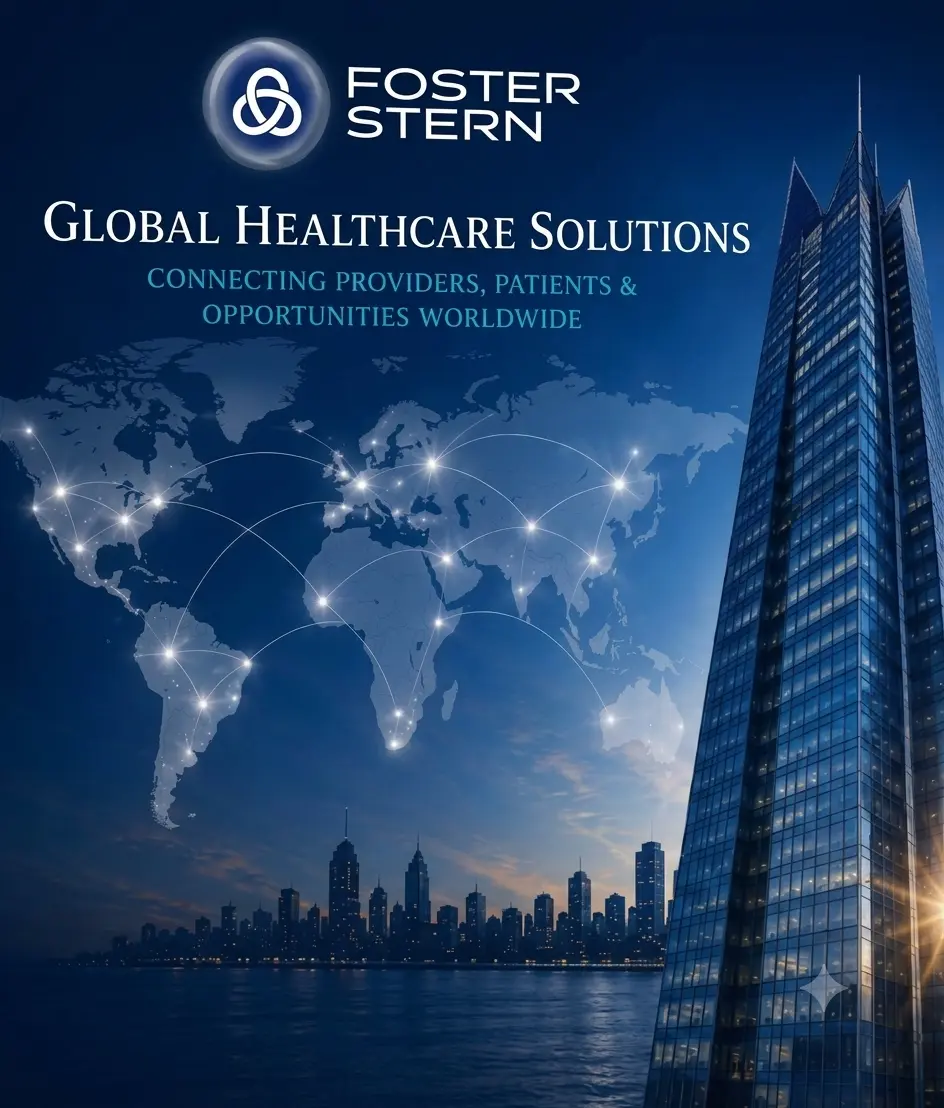
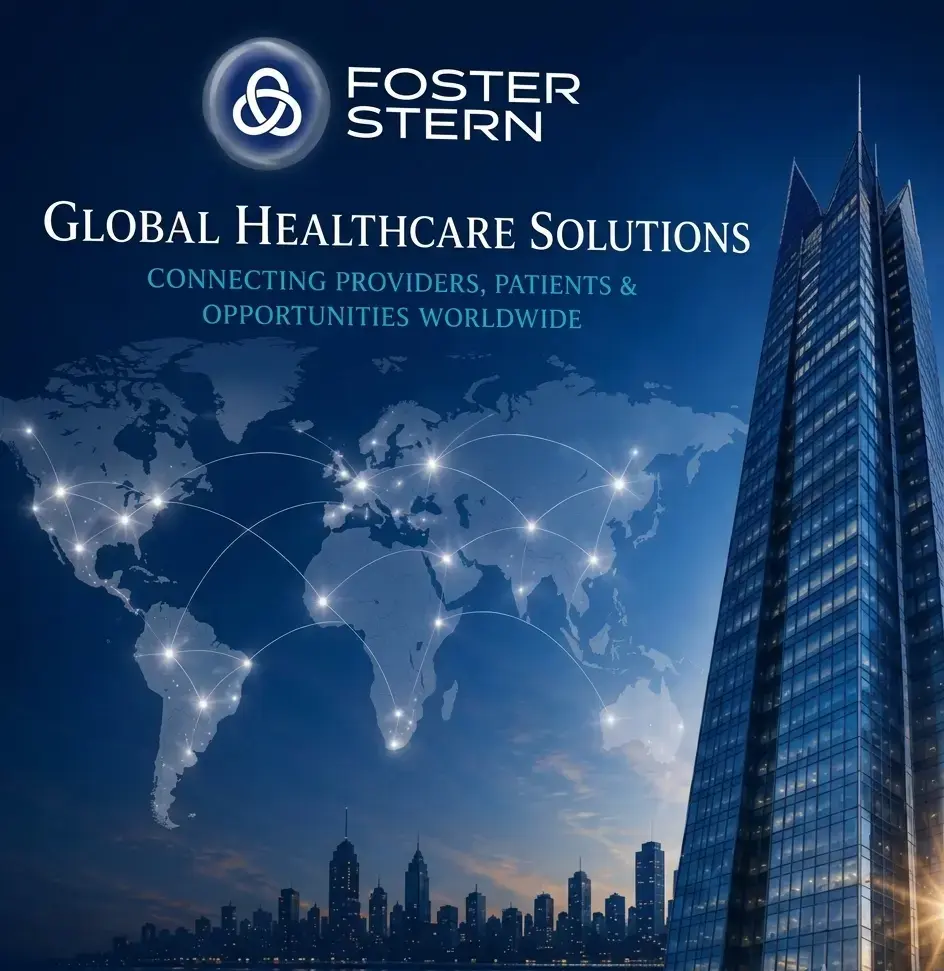
Seccion refactorized Header, secction

diff --git a/src/components/SiteHeader.tsx b/src/components/SiteHeader.tsx
@@ -10,7 +10,14 @@ const links: { label: string; to: string; hash?: string }[] = [
   { label: "Clientes", to: "/", hash: "testimonials" },
 ];
 
-const logos = ["/images/FSGRD.svg", "/images/FSGMX.svg", "/images/FSGCO.svg", "/images/FSGESP.svg" , "/images/Lamed.svg",  "/images/MiamiInstitute.svg"];
+const logos = [
+  "/images/FSGRD.svg",
+  "/images/FSGMX.svg",
+  "/images/FSGCO.svg",
+  "/images/FSGESP.svg",
+  "/images/Lamed.svg",
+  "/images/MiamiInstitute.svg",
+];
 
 export function SiteHeader() {
   const [open, setOpen] = useState(false);
@@ -98,11 +105,10 @@ export function SiteHeader() {
     transition-all
     duration-500
     ease-[cubic-bezier(.22,1,.36,1)]
-    ${
-      showHeader
-        ? "opacity-100 translate-y-0 blur-0 scale-100 pointer-events-auto"
-        : "opacity-0 -translate-y-6 blur-sm scale-[0.98] pointer-events-none"
-    }
+    ${showHeader
+          ? "opacity-100 translate-y-0 blur-0 scale-100 pointer-events-auto"
+          : "opacity-0 -translate-y-6 blur-sm scale-[0.98] pointer-events-none"
+        }
   `}
     >
       {/* TOP MARQUEE */}
@@ -182,14 +188,14 @@ export function SiteHeader() {
           {/* DESKTOP NAV */}
           <nav
             className="
-          hidden
-          md:flex
-          items-center
-          gap-10
-          absolute
-          left-1/2
-          -translate-x-1/2
-        "
+    hidden
+    lg:flex
+    items-center
+    gap-10
+    absolute
+    left-1/2
+    -translate-x-1/2
+  "
           >
             {links.map((link) => (
               <Link

diff --git a/src/components/ServicesShowcaseGrid.tsx b/src/components/ServicesShowcaseGrid.tsx
@@ -33,7 +33,7 @@ const services: ServiceCardData[] = [
     id: "medicina-clinica",
     title: "Medicina Clínica",
     description: "Atención médica especializada y de alta calidad.",
-    image: "/images/Medicina-Clinica.png",
+    image: "/images/Medicina-Clinica.webp",
     modal: {
       description:
         "Equipos clínicos multidisciplinarios que acompañan cada caso con protocolos rigurosos, tecnología de diagnóstico actualizada y seguimiento cercano del paciente en todas las etapas del tratamiento.",
@@ -48,7 +48,7 @@ const services: ServiceCardData[] = [
     id: "medicina-regenerativa",
     title: "Medicina Regenerativa",
     description: "Restauración de la salud celular y tejidos mediante terapias innovadoras.",
-    image: "/images/Medicina-regenerativa.png",
+    image: "/images/Medicina-regenerativa.webp",
     modal: {
       description:
         "Terapias de vanguardia orientadas a la reparación de tejidos y la recuperación funcional, combinando investigación científica con un enfoque centrado en resultados sostenibles a largo plazo.",
@@ -63,7 +63,7 @@ const services: ServiceCardData[] = [
     id: "investigacion-medica",
     title: "Investigación Médica",
     description: "Desarrollo científico y protocolos de vanguardia para la medicina del futuro.",
-    image: "/images/Investigacion-medica.png",
+    image: "/images/Investigacion-medica.webp",
     modal: {
       description:
         "Programas de investigación que traducen hallazgos científicos en protocolos aplicables, impulsando innovación médica con estándares internacionales de calidad y ética.",
@@ -78,7 +78,7 @@ const services: ServiceCardData[] = [
     id: "manufactura-distribucion",
     title: "Manufactura y Distribución",
     description: "Producción y logística global de insumos médicos confiables.",
-    image: "/images/Manufacturacion.png",
+    image: "/images/Manufacturacion.webp",
     modal: {
       description:
         "Infraestructura de manufactura y una red logística global que garantiza trazabilidad, calidad certificada y entregas puntuales de insumos médicos en cada región donde operamos.",
@@ -93,7 +93,7 @@ const services: ServiceCardData[] = [
     id: "inmunologia-alergias",
     title: "Inmunología y Alergias",
     description: "Diagnóstico avanzado y tratamientos para el sistema inmunológico.",
-    image: "/images/Imnunologia.png",
+    image: "/images/Imnunologia.webp",
     modal: {
       description:
         "Diagnóstico de precisión y planes de tratamiento individualizados para condiciones inmunológicas y alérgicas, apoyados en tecnología especializada y monitoreo continuo.",
@@ -108,7 +108,7 @@ const services: ServiceCardData[] = [
     id: "innovacion-salud",
     title: "Innovación en Salud",
     description: "Creación de nuevos proyectos y soluciones médicas de alto impacto.",
-    image: "/images/Innovacion.png",
+    image: "/images/Innovacion.webp",
     modal: {
       description:
         "Un área dedicada a explorar nuevas soluciones médicas, desde alianzas estratégicas hasta el desarrollo de proyectos que amplían nuestro impacto en la salud global.",
@@ -226,7 +226,10 @@ function ServiceCard({ service, index }: ServiceCardProps) {
  */
 export function ServicesShowcaseGrid() {
   return (
-    <div className="mx-auto max-w-6xl mt-20" id="services">
+    <div
+  className="mx-auto mt-20 max-w-6xl px-4 sm:px-6 lg:px-8"
+  id="services"
+>
       {/* Header de la sección */}
       <div className="max-w-2xl">
         <span className="text-xs font-semibold uppercase tracking-[0.2em] text-[#238CCC]">

diff --git a/src/routes/index.tsx b/src/routes/index.tsx
@@ -1,6 +1,6 @@
 import { createFileRoute } from "@tanstack/react-router";
 import { SiteHeader } from "@/components/SiteHeader";
-import infoImage from "@/assets/info-section.jpg";
+import infoImage from "/images/Cuidado-de-salud.webp";
 import heroMain from "@/assets/hero-main.jpg";
 import cityMexico from "@/assets/city-mexico.jpg";
 import cityMiami from "@/assets/city-miami.jpg";
@@ -34,12 +34,12 @@ import {
 import { useEffect, useState } from "react";
 
 const heroImages = [
-  "/images/HeroSection1.png",
-  "/images/Innovacion.png",
-  "/images/Hero-image-3.png",
+  "/images/HeroSection1.webp",
+  "/images/Innovacion.webp",
+  "/images/Hero-image-3.webp",
   "/images/HeroImage5.webp",
   "/images/HeroImage6.webp",
-  "/images/HeroImage6.1.webp",
+  
 ];
 
 export const Route = createFileRoute("/")({
@@ -61,11 +61,11 @@ function Index() {
       <SiteHeader />
 
       {/* HERO — Deep navy strategic */}
-      <section id="top" className="relative overflow-hidden bg-[#F5F5F5] pt-24 md:pt-32 ">
+      <section id="top" className="relative overflow-hidden bg-[#F5F5F5] pt-24 md:pt-32 lg:pt-0">
         <div className="grid min-h-[75vh] lg:grid-cols-[40%_60%]">
           {/* LEFT CONTENT */}
           <div className="flex items-center">
-            <div className="mx-auto w-full max-w-xl px-2 py-16 md:px-12 lg:px-2">
+            <div className="mx-auto w-full max-w-xl px-2 py-16 md:px-12 lg:px-12">
               <h1 className="text-5xl font-extrabold tracking-tight text-[#111] md:text-6xl lg:text-5xl leading-tight flex flex-col gap-3">
                 <span className="text-[#0D3B7F]">Soluciones</span>
 
@@ -212,7 +212,7 @@ function Index() {
         <div
           className="absolute inset-0 bg-cover bg-center"
           style={{
-            backgroundImage: "url('/images/CTAImage.png')",
+            backgroundImage: "url('/images/Cuidado-de-la-salud.webp')",
           }}
         />
 